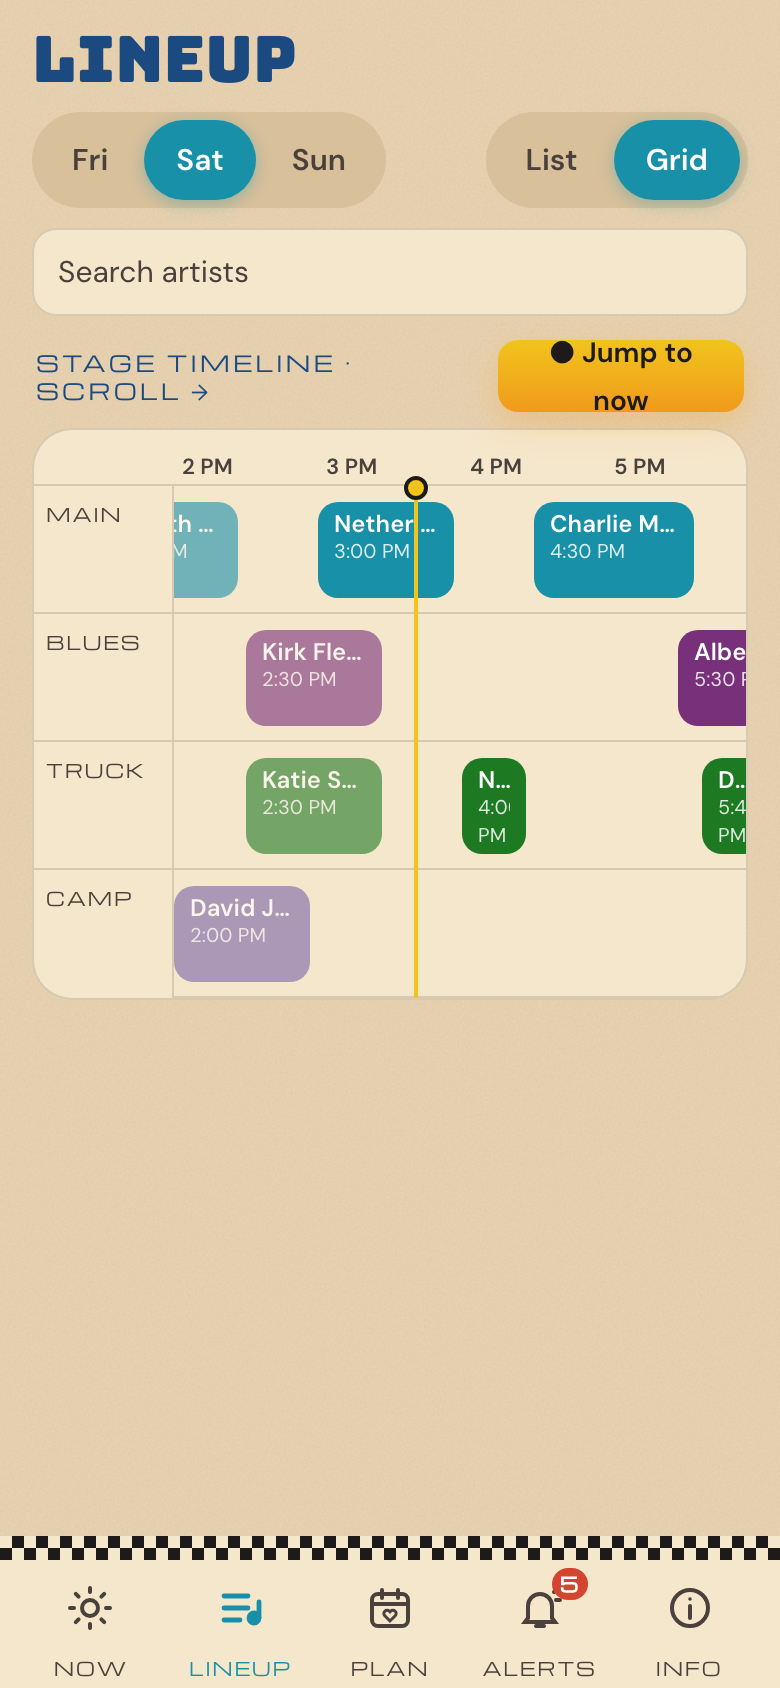
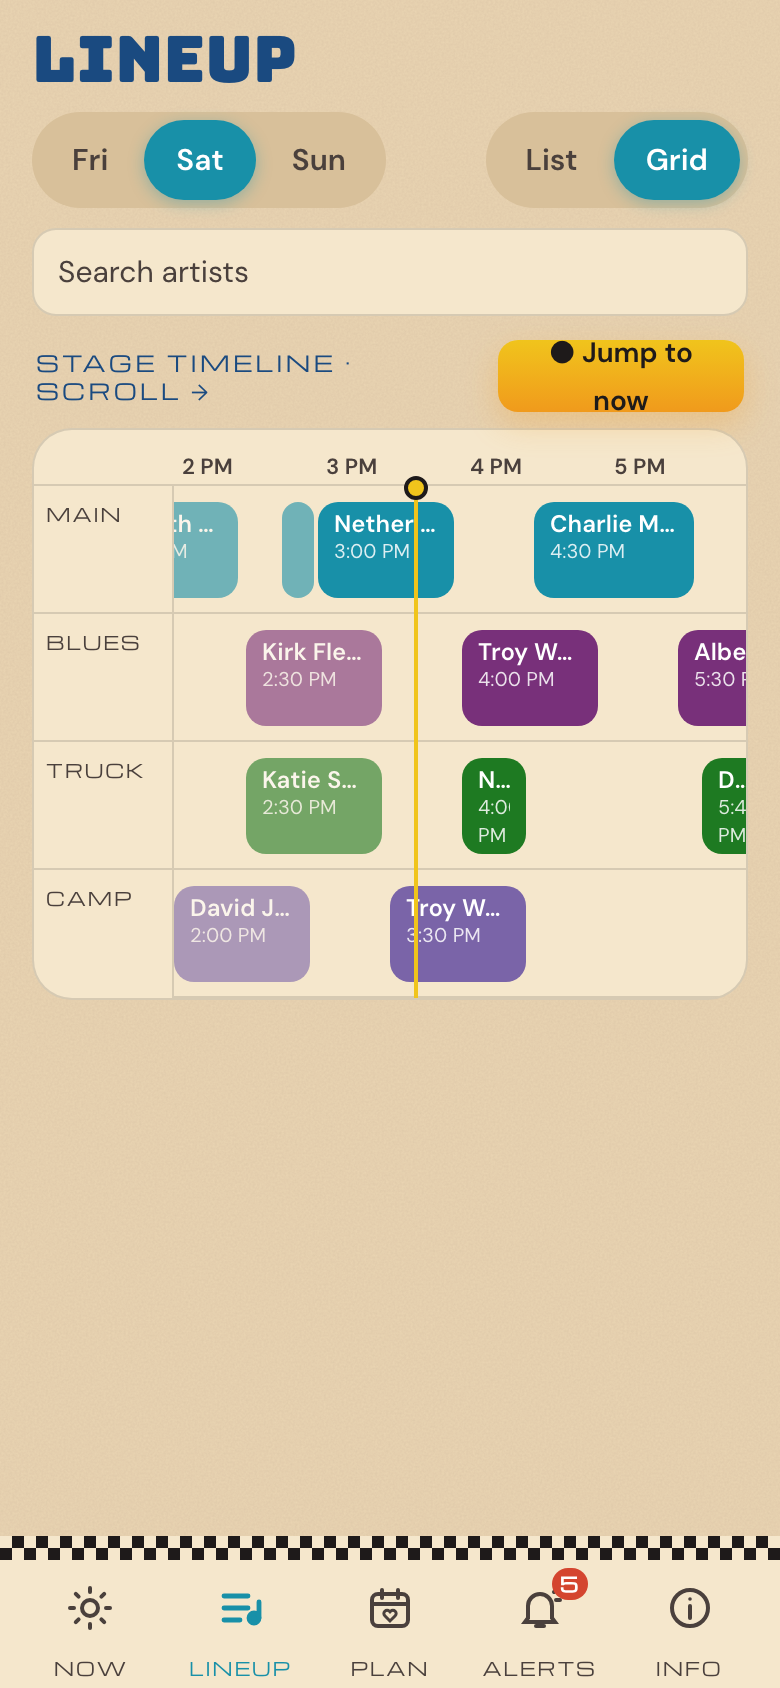
content: add official comedy sets and Blues Challenge Winner slot
Re-verified content-2026.json against tellurideblues.com/schedule and
found 11 official items missing: 4 stand-up comedy sets (Troy Walker
w/ Baron Vaughn, Kiran Deol & Hannah Jones) on Sat/Sun at the Blues
Stage and Campground Sessions, and the Saturday Main Stage 2:45-3:00 PM
"2026 Telluride Blues Challenge Winner" slot (new lineup-tier artist
telluride-blues-challenge-winner-2026). bundled.json now carries 35
artists / 46 sets (was 34/41).

Two schedule.test.ts assertions were updated to match the corrected
data (Sat 3:40 PM now has two concurrent sets; the Blues comedy set
now edges out Musselwhite in "up next") -- exact-array checks, not
weakened. Two pure fixture-count assertions moved 14 -> 17.

Heritage Plaza (6 more official sets, 2 new artists, a 5th stage) is
scoped in docs/DECISIONS.md D-024 but not implemented.

Changed region(s): [[0.5846, 0.3697, 0.7692, 0.4313], [0.4923, 0.5237, 0.6769, 0.5853], [0.3385, 0.2773, 0.4, 0.3697]]

diff --git a/apps/festival/src/domain/schedule.test.ts b/apps/festival/src/domain/schedule.test.ts
@@ -22,25 +22,25 @@ describe("festivalState", () => {
 describe("day + stage grouping", () => {
   it("returns Saturday's sets in chronological order, grouped by stage sortOrder", () => {
     const sat = setsForDay(content.sets, "sat");
-    expect(sat.length).toBe(14);
+    expect(sat.length).toBe(17);
     expect(sat[0]?.id).toBe("sat-j-causeways-main-1200");
     const groups = groupByStage(sat, content.stages);
     expect(groups.map((g) => g.stage.id)).toEqual(["main", "blues", "truck", "camp"]);
     expect(groups[0]?.sets.map((s) => s.artistId)).toEqual([
-      "j-causeways", "judith-hill", "nether-hour", "charlie-musselwhite-ga20", "record-company", "taj-mahal-keb-mo",
+      "j-causeways", "judith-hill", "telluride-blues-challenge-winner-2026", "nether-hour", "charlie-musselwhite-ga20", "record-company", "taj-mahal-keb-mo",
     ]);
   });
 });
 
 describe("now / next at Saturday 3:40 PM", () => {
   const sat = setsForDay(content.sets, "sat");
-  it("Nether Hour is on the Main Stage with 20 minutes left", () => {
+  it("Nether Hour is on the Main Stage with 20 minutes left (alongside the Campground comedy set)", () => {
     const on = nowPlaying(sat, SAT_340);
-    expect(on.map((s) => s.artistId)).toEqual(["nether-hour"]);
+    expect(on.map((s) => s.artistId)).toEqual(["nether-hour", "troy-walker"]);
     expect(progress(on[0]!, SAT_340)).toBeCloseTo(40 / 60, 2);
   });
-  it("up next is Nigel Wearne (Truck 4:00) then Musselwhite (Main 4:30), one per stage", () => {
-    expect(upNext(sat, SAT_340, 2).map((s) => s.id)).toEqual(["sat-nigel-wearne-truck-1600", "sat-charlie-musselwhite-ga20-main-1630"]);
+  it("up next is Nigel Wearne (Truck 4:00) then the Blues Stage comedy set (4:00), one per stage", () => {
+    expect(upNext(sat, SAT_340, 2).map((s) => s.id)).toEqual(["sat-nigel-wearne-truck-1600", "sat-troy-walker-blues-1600"]);
   });
   it("Kirk Fletcher's 2:30 set has ended", () => {
     const kirk = sat.find((s) => s.id === "sat-kirk-fletcher-blues-1430")!;

diff --git a/apps/festival/src/data/content.test.ts b/apps/festival/src/data/content.test.ts
@@ -7,7 +7,7 @@ describe("content repository", () => {
     expect(c.meta.contentVersion).toBe("2026.09.09.1");
     const idx = buildIndex(c);
     expect(idx.stagesById.get("main")?.color).toBe("sky");
-    expect(idx.setsByDay.sat.length).toBe(14);
+    expect(idx.setsByDay.sat.length).toBe(17);
     expect(idx.setsByArtist.get("nigel-wearne")?.length).toBe(3);
   });
 });

diff --git a/docs/DECISIONS.md b/docs/DECISIONS.md
@@ -104,3 +104,11 @@ Format: **ID · Date · Status** — Decision. *Context.* *Alternatives.* *Conse
 **Consequences (addendum, 2026-09-10).** iOS project uses Swift Package Manager (Capacitor 8 template default); legacy Android round icon rendered with transparent corners (review fix).
 
 **Consequences (addendum, 2026-09-10).** Native origins stay at the Capacitor defaults (`capacitor://localhost` iOS, `https://localhost` Android): fans' favorites/plan live in WebView localStorage at that origin, so `ios.scheme`/`androidScheme` must never change. Android uses the Android 12 icon-only system splash on a paper background (no bitmap splash drawables), a deliberate deviation from spec §8.
+
+## D-024 — Content reconciled against the official schedule: 4 comedy sets + Blues Challenge Winner slot added; Heritage Plaza scoped, not built (2026-09-11)
+
+**Decision.** `packages/content/content-2026.json` gains the four official "Stand-Up Comedy hosted by Troy Walker with Baron Vaughn, Kiran Deol & Hannah Jones" sets (Sat Campground 3:30–4:30 PM, Sat Blues 4:00–5:00 PM, Sun Campground 12:30–1:30 PM, Sun Blues 4:00–5:00 PM — `artistId: troy-walker`, the other three comics named in each set's `note`) and a new `lineup`-tier artist `telluride-blues-challenge-winner-2026` ("2026 Telluride Blues Challenge Winner") with its Saturday Main Stage 2:45–3:00 PM set, per the official schedule page fetched 2026-09-11. `bundled.json` now carries 35 artists / 46 sets (was 34/41). Firestore `content/published` is **not** re-seeded by this change (stays v2026.09.09.1 until `SEED_FORCE=1 npm run seed` is run before beta). The six Heritage Plaza sets (Donny Morales, Dave Jordan, and four existing-roster artists across Fri/Sat/Sun) are documented but not implemented — see `.superpowers/sdd/content-update-report.md` for the feasibility scope (5th `StageColor`, `Chip` tones, `LineupGrid` column layout, `NowPost` "four stages" copy, admin `shared/` mirror).
+
+**Why.** A read-only audit found the official schedule has 11 items the bundled content lacked; CLAUDE.md forbids inventing content, so only rows verbatim from `tellurideblues.com/schedule` were added, and Heritage Plaza (a 5th performance area) was scoped rather than shoehorned into the current 4-stage schema.
+
+**Consequences.** Two schedule-domain tests (`schedule.test.ts`) now assert two concurrent "now playing" sets at Sat 3:40 PM (Nether Hour + the Campground comedy set) and a different "up next" pair (the Blues Stage comedy set edges out Musselwhite at the 3:40 PM snapshot) — updated to match the corrected data, not weakened. Two pure fixture-count assertions (`content.test.ts`, `schedule.test.ts`) moved from 14 to 17 Saturday sets. Heritage Plaza remains a follow-up phase.

diff --git a/docs/HANDOFF.md b/docs/HANDOFF.md
@@ -41,7 +41,7 @@ This is a **fresh start**. Two earlier prototypes exist in the old `samgumble/mu
 | Repo scaffold | ✅ Sep 9 | npm workspaces: apps/festival, packages/shared, packages/content (`festival-app`) |
 | Firebase project + rules | ✅ | `firebase/firestore.rules` deployed to `bb-festival-2026` on 2026-09-10 (`npm run rules:deploy`); 10 emulator tests green (`npm run rules:test`); live probe: `content/published` readable, `content/draft` and `admins/*` denied unauthenticated |
 | Design tokens + fonts | ✅ | Palette locked D-016; Tailwind v4 theme; Bungee/Bungee Shade/Michroma/DM Sans bundled |
-| Content seed | ✅ Sep 10 | bundled ✅; Firestore `content/published` = v2026.09.09.1 (41 sets, seeded by Sam via `npm run seed`; password via env only, e.g. `FIREBASE_ADMIN_PASSWORD="$(pbpaste)" FIREBASE_ADMIN_EMAIL=… npm run seed; pbcopy </dev/null`); re-verify vs official schedule before beta |
+| Content seed | ✅ Sep 10, re-verified Sep 11 | bundled ✅ (35 artists, 46 sets); Firestore `content/published` still v2026.09.09.1 (41 sets, seeded by Sam via `npm run seed`; password via env only, e.g. `FIREBASE_ADMIN_PASSWORD="$(pbpaste)" FIREBASE_ADMIN_EMAIL=… npm run seed; pbcopy </dev/null`) — **stale**: `content-2026.json`/`bundled.json` were re-verified against the official schedule Sep 11 and gained 4 comedy sets + the Saturday Blues Challenge Winner slot (11 official items were missing; see `.superpowers/sdd/content-update-report.md`); re-seed with `SEED_FORCE=1` before beta so Firestore matches. Heritage Plaza (6 more sets, 2 new artists) is scoped but not implemented — 5th-stage support needed first. |
 | Now / Lineup | ✅ design pass | all states via dev clock; screenshots in `docs/screens/design-pass/` |
 | Plan / Alerts / Info / PWA | ✅ Sep 10 | Plan/Alerts/Info at rough fidelity; PWA: Workbox precache (2605 KiB (grew by the Capacitor web-fallback chunks)), prompt-mode update banner, Info "Get the app" nudge (Chromium prompt / iOS sheet), offline e2e `npm run e2e:offline`. GitHub Pages serves `sw.js` with `Cache-Control: max-age=600`, so a new build can take up to ~10 min to surface the update banner |
 | Admin console | ✅ Sep 9 | https://samgumble.github.io/festival-admin/ (repo `festival-admin`, Pages) — sign-in, lineup editor, alerts, publish/rollback; no Functions/push (D-021) |
